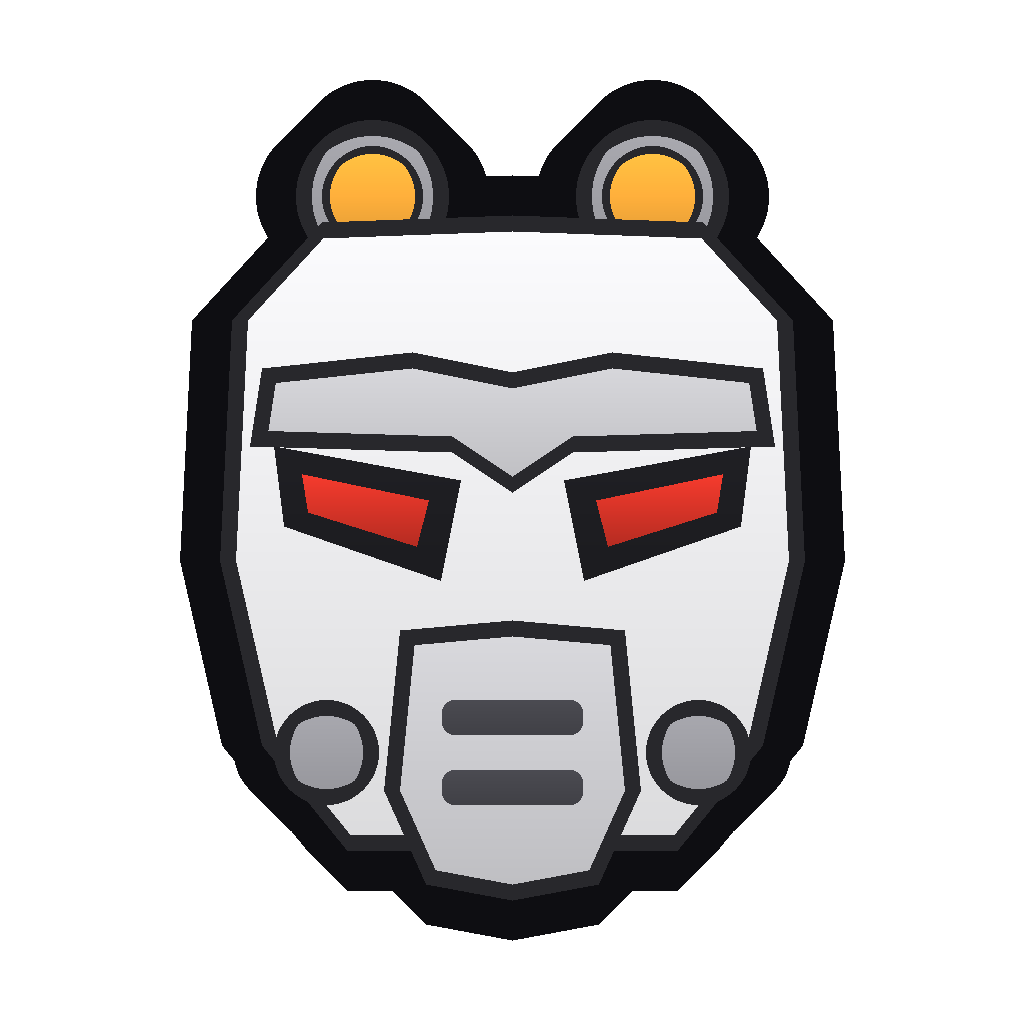
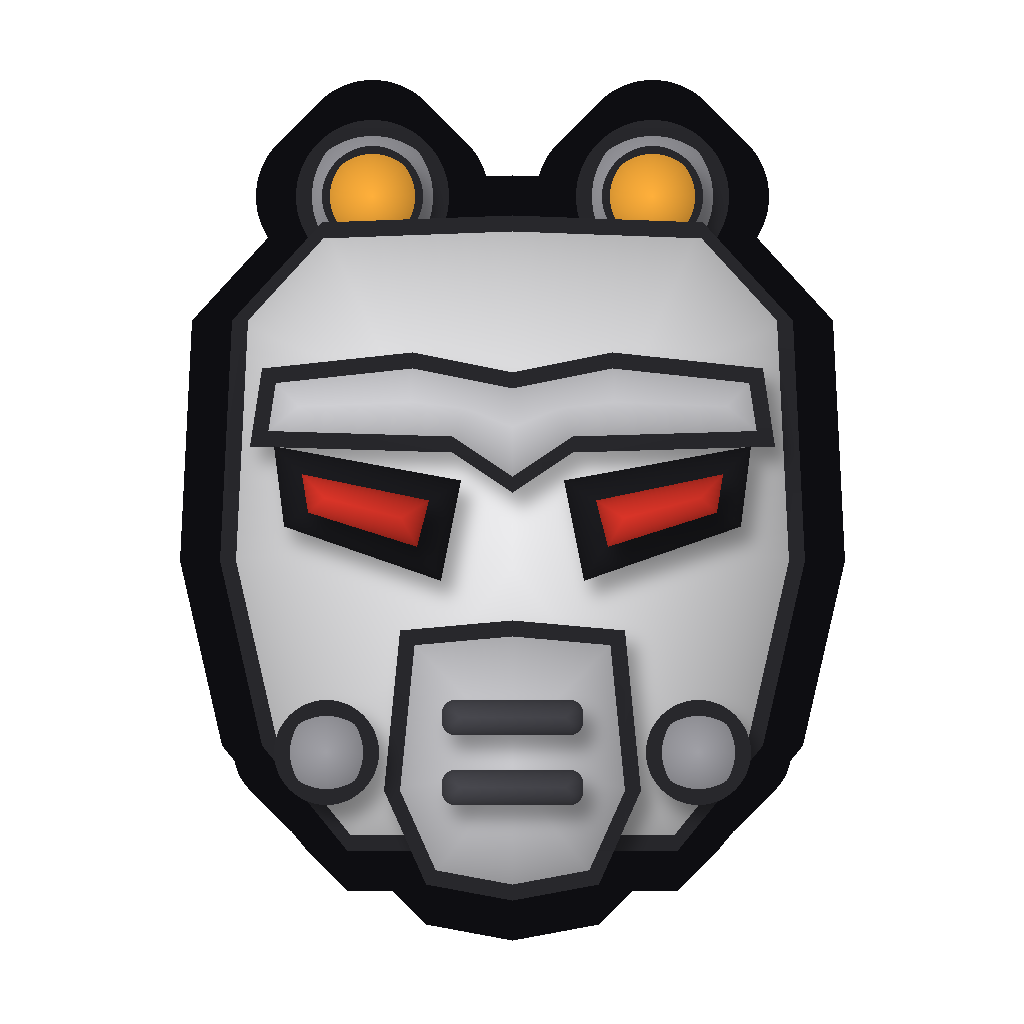
Bulwark VFE style: soft form shading and cast shadows for dimension
Claude-Session: https://claude.ai/code/session_01GM4XsNt8FF8EEgy8oUJDKj

Changed region(s): [[0.2188, 0.125, 0.7812, 0.875]]

diff --git a/Source/Art/vfe_parts.py b/Source/Art/vfe_parts.py
@@ -6,22 +6,22 @@ def rgba(c,path): Image.fromarray(np.dstack([c.rgb.astype(np.uint8),(c.a*255).as
 C=512; Ln=8
 M=lambda pts:[(x,y) for x,y in pts]+[(2*C-x,y) for x,y in reversed(pts)]
 c=Canvas(1024)
-fill_flat(c,c.poly(M([(C,760),(C-300,770),(C-330,900),(C-200,940),(C,946)])),W3,Ln)              # hips
-fill_flat(c,c.poly(M([(C,230),(C-290,250),(C-335,420),(C-300,640),(C-215,780),(C,800)])),W2,Ln)  # torso under the plates
+fill_vfe(c,c.poly(M([(C,760),(C-300,770),(C-330,900),(C-200,940),(C,946)])),W3,Ln)              # hips
+fill_vfe(c,c.poly(M([(C,230),(C-290,250),(C-335,420),(C-300,640),(C-215,780),(C,800)])),W2,Ln)  # torso under the plates
 for sx in (-1,1):
-    x=C+sx*335; fill_flat(c,c.ell((x-82,220,x+82,384)),W2,Ln); fill_flat(c,c.ell((x-44,258,x+44,346)),W3,Ln)   # shoulder joints
-fill_flat(c,c.rrect((C-205,610,C+205,770),40),W2,Ln)                                              # abdomen
-fill_flat(c,c.rrect((C-190,662,C+190,690),10),W3,0)                                               # one suggested seam
+    x=C+sx*335; fill_vfe(c,c.ell((x-82,220,x+82,384)),W2,Ln); fill_vfe(c,c.ell((x-44,258,x+44,346)),W3,Ln)   # shoulder joints
+fill_vfe(c,c.rrect((C-205,610,C+205,770),40),W2,Ln)                                              # abdomen
+fill_vfe(c,c.rrect((C-190,662,C+190,690),10),W3,0)                                               # one suggested seam
 for sx in (-1,1):                                                                                  # the two slab plates
     P=[(C+sx*40,290),(C+sx*285,305),(C+sx*318,450),(C+sx*258,600),(C+sx*44,570)]
-    fill_flat(c,c.poly(P),W1,Ln)
-    for bx,by in ((C+sx*250,350),(C+sx*230,540)): fill_flat(c,c.ell((bx-16,by-16,bx+16,by+16)),W3,0)   # suggested bolts
-fill_flat(c,c.poly([(C-44,262),(C+44,262),(C+34,620),(C,668),(C-34,620)]),W2,Ln)                  # centre ridge
-fill_flat(c,c.ell((C-182,140,C+182,268)),W3,Ln); fill_flat(c,c.ell((C-136,166,C+136,244)),(52,52,58),0)   # collar ring
+    fill_vfe(c,c.poly(P),W1,Ln)
+    for bx,by in ((C+sx*250,350),(C+sx*230,540)): fill_vfe(c,c.ell((bx-16,by-16,bx+16,by+16)),W3,0)   # suggested bolts
+fill_vfe(c,c.poly([(C-44,262),(C+44,262),(C+34,620),(C,668),(C-34,620)]),W2,Ln)                  # centre ridge
+fill_vfe(c,c.ell((C-182,140,C+182,268)),W3,Ln); fill_vfe(c,c.ell((C-136,166,C+136,244)),(52,52,58),0)   # collar ring
 c.outline(18); rgba(c,SP+'/mod2/chassis_bulwark_vfe.png')
 # hooked shielded shoulder plate (left side; mirrored for the right) - chunky, VFE-like mass
 p=Canvas(1024)
-fill_flat(p,p.poly([(170,200),(360,80),(660,80),(730,180),(640,270),(560,250),(560,800),(420,880),(170,880)]),W1,Ln*2)
-fill_flat(p,p.poly([(170,200),(290,226),(290,860),(170,880)]),W2,Ln*2)
-fill_flat(p,p.poly([(290,520),(560,500),(560,560),(290,580)]),W3,0)
+fill_vfe(p,p.poly([(170,200),(360,80),(660,80),(730,180),(640,270),(560,250),(560,800),(420,880),(170,880)]),W1,Ln*2)
+fill_vfe(p,p.poly([(170,200),(290,226),(290,860),(170,880)]),W2,Ln*2)
+fill_vfe(p,p.poly([(290,520),(560,500),(560,560),(290,580)]),W3,0)
 p.outline(36); rgba(p,SP+'/mod2/plate_bulwark_vfe.png')

diff --git a/Source/Art/vfe_helmet.py b/Source/Art/vfe_helmet.py
@@ -5,16 +5,16 @@ W1=(236,236,238); W2=(204,204,208); W3=(160,160,166); DKF=(70,70,76); BLKF=(30,3
 M=lambda pts:[(x,y) for x,y in pts]+[(2*C-x,y) for x,y in reversed(pts)]
 for sx in (-1,1):                                   # lamps on the crown
     x=C+sx*140
-    fill_flat(c,c.ell((x-76,120,x+76,272)),W3,Ln)
-    fill_flat(c,c.ell((x-50,146,x+50,246)),(255,176,60),Ln//2,grad=0.25)
-fill_flat(c,c.poly(M([(C,215),(C-190,222),(C-280,320),(C-292,560),(C-250,745),(C-165,850)])),W1,Ln)   # shell
-fill_flat(c,c.poly(M([(C,372),(C-100,352),(C-250,368),(C-262,446),(C-60,452),(C,492)])),W2,Ln)      # brow
+    fill_vfe(c,c.ell((x-76,120,x+76,272)),W3,Ln)
+    fill_vfe(c,c.ell((x-50,146,x+50,246)),(255,176,60),Ln//2)
+fill_vfe(c,c.poly(M([(C,215),(C-190,222),(C-280,320),(C-292,560),(C-250,745),(C-165,850)])),W1,Ln)   # shell
+fill_vfe(c,c.poly(M([(C,372),(C-100,352),(C-250,368),(C-262,446),(C-60,452),(C,492)])),W2,Ln)      # brow
 for sx in (-1,1):
-    fill_flat(c,c.poly([(C+sx*52,480),(C+sx*238,446),(C+sx*228,526),(C+sx*72,580)]),BLKF,0)          # eye socket
-    fill_flat(c,c.poly([(C+sx*84,500),(C+sx*210,474),(C+sx*204,512),(C+sx*96,546)]),(214,52,40),0,grad=0.3)  # eye
-fill_flat(c,c.poly(M([(C,620),(C-112,630),(C-128,790),(C-86,884),(C,900)])),W2,Ln)                    # breather
-for y in (700,770): fill_flat(c,c.rrect((C-70,y,C+70,y+34),12),DKF,0)
-for sx in (-1,1): fill_flat(c,c.ell((C+sx*186-52,700,C+sx*186+52,804)),W3,Ln)                          # filters
+    fill_vfe(c,c.poly([(C+sx*52,480),(C+sx*238,446),(C+sx*228,526),(C+sx*72,580)]),BLKF,0)          # eye socket
+    fill_vfe(c,c.poly([(C+sx*84,500),(C+sx*210,474),(C+sx*204,512),(C+sx*96,546)]),(214,52,40),0)  # eye
+fill_vfe(c,c.poly(M([(C,620),(C-112,630),(C-128,790),(C-86,884),(C,900)])),W2,Ln)                    # breather
+for y in (700,770): fill_vfe(c,c.rrect((C-70,y,C+70,y+34),12),DKF,0)
+for sx in (-1,1): fill_vfe(c,c.ell((C+sx*186-52,700,C+sx*186+52,804)),W3,Ln)                          # filters
 c.outline(40)
 c.save(SP+'/mod2/helmet_bulwark_vfe.png')
 Image.fromarray(np.dstack([c.rgb.astype(np.uint8),(c.a*255).astype(np.uint8)]),'RGBA').save(SP+'/mod2/helmet_bulwark_vfe_rgba.png')

diff --git a/Source/Art/vdraw.py b/Source/Art/vdraw.py
@@ -72,3 +72,41 @@ def fill_cyl(c,mask,col,edge=4,hi=0.32):
     ring=mask&~ndimage.binary_erosion(mask,iterations=edge)
     c.rgb[ring]=c.rgb[ring]*0.25+INK*0.75
     c.a|=mask
+
+# ---- VFE / vanilla style: flat tone + soft top-down gradient, thin dark inner line, no bevel/specular
+FLAT_LINE=(40,40,44)
+def fill_flat(c,mask,col,line=10,grad=0.14,line_col=FLAT_LINE):
+    col=np.array(col,float); yy,xx=np.nonzero(mask)
+    if not len(yy): return
+    t=np.clip((np.arange(c.n)-yy.min())/max(1,yy.max()-yy.min()),0,1)[:,None]*np.ones((1,c.n))
+    f=1+grad*(0.5-t)
+    cc=np.clip(col[None,None,:]*f[...,None],0,255); c.rgb[mask]=cc[mask]
+    if line:
+        ring=mask&~ndimage.binary_erosion(mask,iterations=line); c.rgb[ring]=line_col
+    c.a|=mask
+
+# ---- VFE shading v2: soft form shading + cast shadows, still clean and light
+SHADE=dict(form=0.34, light=0.22, shadow=0.32, shadow_off=(10,14), shadow_blur=8)
+def fill_vfe(c,mask,col,line=10,form='round',line_col=FLAT_LINE,shadow=True,k=None):
+    k=k or SHADE; col=np.array(col,float)
+    yy,xx=np.nonzero(mask)
+    if not len(yy): return
+    # cast shadow of this piece onto what is already drawn underneath
+    if shadow and c.a.any():
+        dx,dy=k['shadow_off']; sh=np.zeros_like(mask); sh[dy:,dx:]=mask[:-dy,:-dx]
+        sh=ndimage.gaussian_filter(sh.astype(float),k['shadow_blur'])*(c.a&~mask)
+        c.rgb*=(1-k['shadow']*sh)[...,None]
+    y0,y1,x0,x1=yy.min(),yy.max(),xx.min(),xx.max()
+    Y,X=np.mgrid[0:c.n,0:c.n]
+    u=(X-x0)/max(1,x1-x0); v=(Y-y0)/max(1,y1-y0)
+    if form=='round':
+        d=ndimage.distance_transform_edt(mask); dn=d/max(1,d.max())
+        f=1-k['form']*(1-np.sqrt(np.clip(dn,0,1)))          # darker toward the rim, soft
+    elif form=='cyl':
+        f=1-k['form']*np.clip(np.abs(u-0.36)*1.8,0,1)**1.5   # light band left of centre
+    else: f=np.ones_like(u,dtype=float)
+    f=f+k['light']*(0.5-0.5*u-0.5*v)                          # light from the upper left
+    cc=np.clip(col[None,None,:]*f[...,None],0,255); c.rgb[mask]=cc[mask]
+    if line:
+        ring=mask&~ndimage.binary_erosion(mask,iterations=line); c.rgb[ring]=line_col
+    c.a|=mask

diff --git a/Source/Art/vweap_vfe.py b/Source/Art/vweap_vfe.py
@@ -4,11 +4,11 @@ import numpy as np
 from PIL import Image
 from scipy import ndimage
 import vdraw
-from vdraw import fill_cyl, fill_flat
+from vdraw import fill_cyl, fill_flat, fill_vfe
 import vdraw as _v
-def _flat_fill(self,mask,col,**k): fill_flat(self,mask,col,24)
+def _flat_fill(self,mask,col,**k): fill_vfe(self,mask,col,24,form='round',k=dict(form=0.34,light=0.22,shadow=0.32,shadow_off=(26,36),shadow_blur=20))
 _v.Canvas.fill=_flat_fill
-fill_cyl=lambda c,m,col,**k: fill_flat(c,m,col,24)
+fill_cyl=lambda c,m,col,**k: fill_vfe(c,m,col,24,form='cyl',k=dict(form=0.42,light=0.12,shadow=0.32,shadow_off=(26,36),shadow_blur=20))
 _v.Canvas.glow=lambda self,*a,**k: None
 N=2048; X=1024
 STEEL=(150,152,160); DK=(86,88,96); BLK=(26,26,32); OLIVE=(104,116,82); PALE=(214,206,150)

diff --git a/docs/DESIGN.md b/docs/DESIGN.md
@@ -93,7 +93,7 @@ Decisions agreed with the owner, to build from. Numbers are starting points for 
 
 ### Art style: VFE / vanilla RimWorld (adopted)
 
-Matches VFE Pirates' warcaskets: light grey parts (the game tints them), two or three flat tones with a soft
+Matches VFE Pirates' warcaskets: light grey parts (the game tints them), soft form shading (rounded parts darken toward the rim, light from the upper left, plates cast soft shadows; `fill_vfe`), two or three tones with a soft
 top-down gradient, thin dark inner lines between big plates, a heavy black silhouette outline, and detail only
 suggested (a seam, a couple of bolts, a slot). Tools: `Source/Art/vdraw.py` `fill_flat`, the parts in
 `vfe_parts.py` / `vfe_helmet.py`, flat weapons in `vweap_vfe.py`, assembly in `vfe_build.py`; `vfe_style.py`
